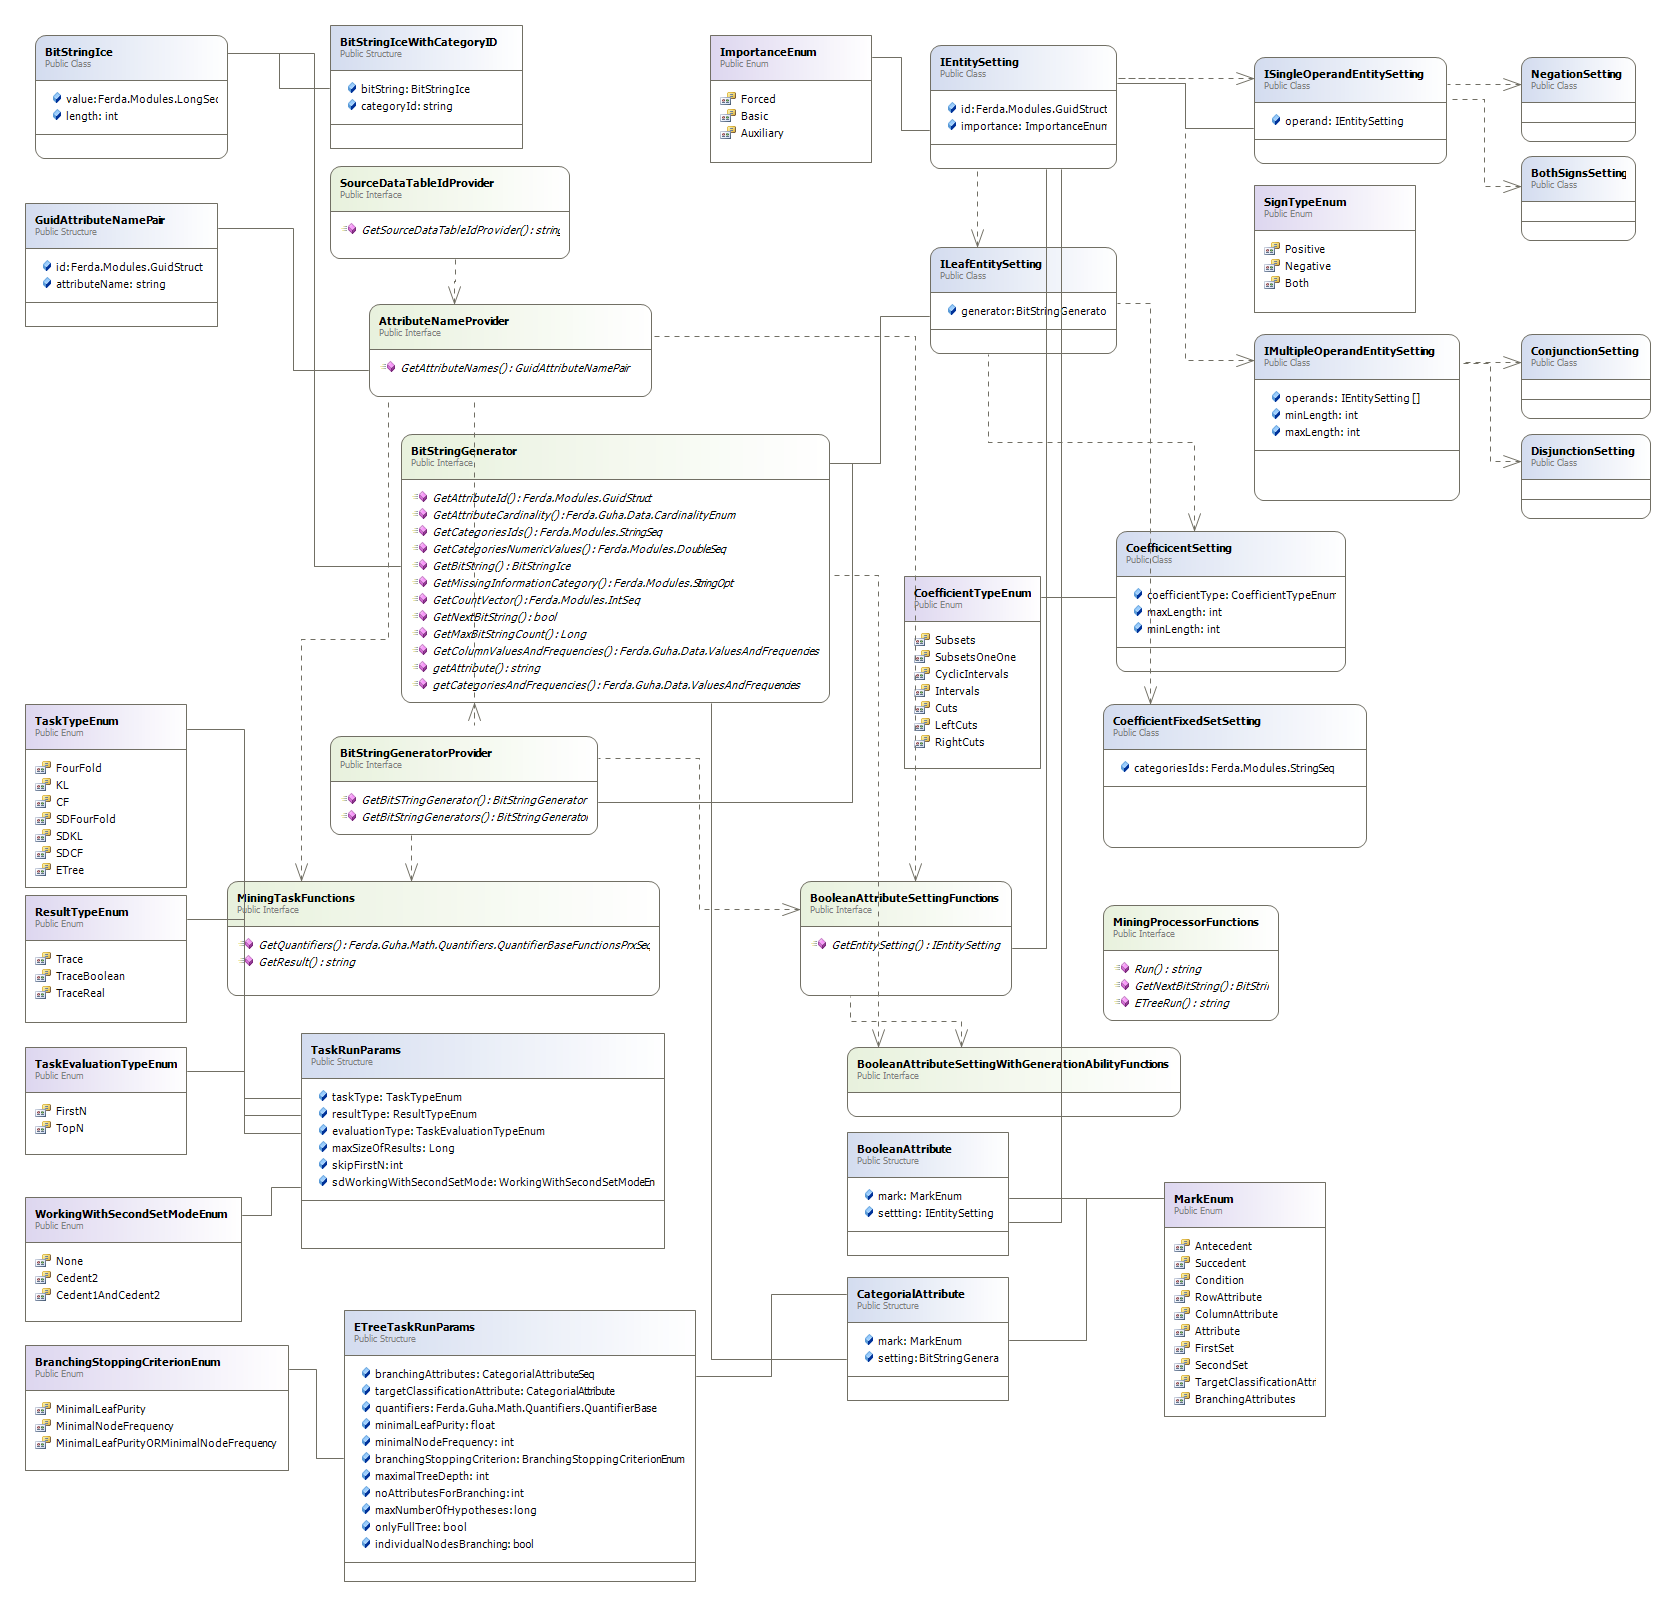
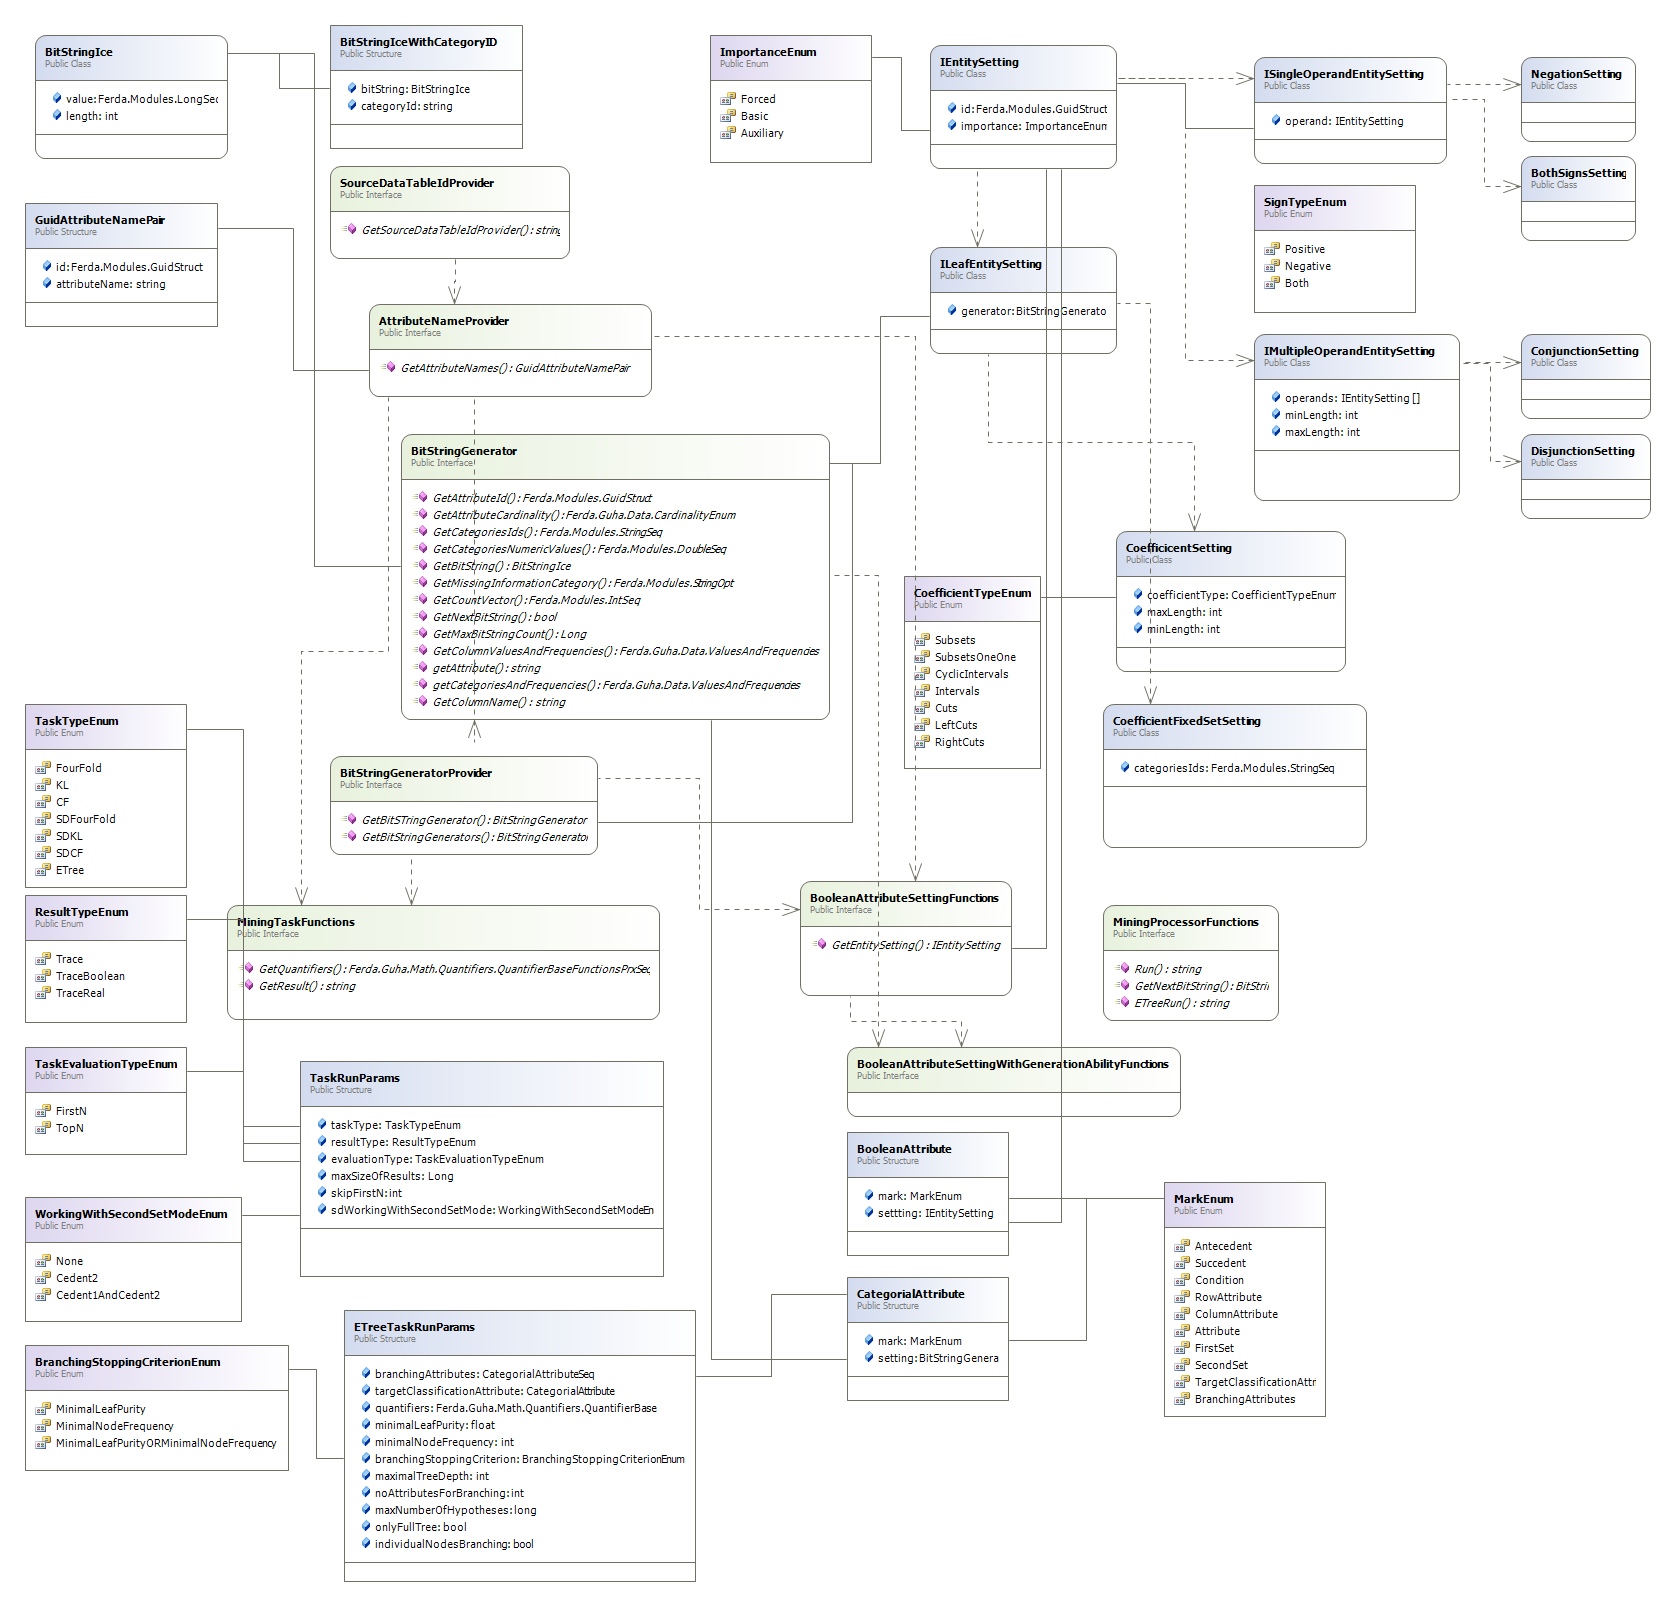
PMMLBuilder box - progress

Changed region(s): [[0.1242, 0.4359, 0.4036, 0.7783]]

diff --git a/ferda/src/Modules/Core/MiningProcessor/Design/BitStringGeneratorPrx.cs b/ferda/src/Modules/Core/MiningProcessor/Design/BitStringGeneratorPrx.cs
@@ -44,6 +44,28 @@ namespace Ferda.Guha.MiningProcessor.Design
     public class BitStringGeneratorPrx : AttributeNameProvider
     {
         /// <summary>
+        /// Gets the name of the column from which the attribute and bit string generator
+        /// is created. Added for PMML purposes. 
+        /// </summary>
+        /// <param name="current__">ICE stuff</param>
+        /// <returns></returns>
+        public override string GetColumnName(Current current__)
+        {
+            throw new NotImplementedException();
+        }
+
+        /// <summary>
+        /// Gets categories and frequencies of the underlying attribute. The function
+        /// was taken from AttributeFunctions for purposes of PMML generation. 
+        /// </summary>
+        /// <param name="current__">ICE stuff</param>
+        /// <returns>Values and frequencies of the attribute categories</returns>
+        public override ValuesAndFrequencies getCategoriesAndFrequencies(Current current__)
+        {
+            throw new NotImplementedException();
+        }
+
+        /// <summary>
         /// Returns serialized attribute <see cref="Ferda.Guha.Attribute"/>.
         /// This fucntion was added to the Slice desing for
         /// the PMML support - it was removed from 

diff --git a/ferda/src/Modules/BoxModulesServices/DataPreparation/Categorization/EquidistantIntervals/Functions.cs b/ferda/src/Modules/BoxModulesServices/DataPreparation/Categorization/EquidistantIntervals/Functions.cs
@@ -870,6 +870,17 @@ namespace Ferda.Modules.Boxes.DataPreparation.Categorization.EquidistantInterval
         #region ICE functions
 
         /// <summary>
+        /// Gets the name of the column from which the attribute and bit string generator
+        /// is created. Added for PMML purposes. 
+        /// </summary>
+        /// <param name="current__">ICE stuff</param>
+        /// <returns></returns>
+        public override string GetColumnName(Current current__)
+        {
+            return GetColumnFunctionsPrx(true).getColumnInfo().columnSelectExpression;
+        }
+
+        /// <summary>
         /// Returns cardinality of the attribute (nominal/ordinal/cyclic ordinal/cardinal).
         /// </summary>
         /// <param name="current__">ICE stuff</param>

diff --git a/ferda/src/Modules/BoxModulesServices/DataPreparation/Categorization/EquidistantIntervalsLISp/Functions.cs b/ferda/src/Modules/BoxModulesServices/DataPreparation/Categorization/EquidistantIntervalsLISp/Functions.cs
@@ -886,6 +886,17 @@ namespace Ferda.Modules.Boxes.DataPreparation.Categorization.EquidistantInterval
         #region ICE functions
 
         /// <summary>
+        /// Gets the name of the column from which the attribute and bit string generator
+        /// is created. Added for PMML purposes. 
+        /// </summary>
+        /// <param name="current__">ICE stuff</param>
+        /// <returns></returns>
+        public override string GetColumnName(Current current__)
+        {
+            return GetColumnFunctionsPrx(true).getColumnInfo().columnSelectExpression;
+        }
+
+        /// <summary>
         /// Returns cardinality of the attribute (nominal/ordinal/cyclic ordinal/cardinal).
         /// </summary>
         /// <param name="current__">ICE stuff</param>

diff --git a/ferda/src/Modules/BoxModulesServices/GuhaMining/VirtualAttributes/VirtualFFTBooleanAttribute/Functions.cs b/ferda/src/Modules/BoxModulesServices/GuhaMining/VirtualAttributes/VirtualFFTBooleanAttribute/Functions.cs
@@ -571,7 +571,18 @@ namespace Ferda.Modules.Boxes.GuhaMining.VirtualAttributes.VirtualFFTBooleanAttr
         {
             throw new BoxRuntimeError("Virtual 4FT attribute", "The function getAttribute is not supported.");
         }
-   
+
+        /// <summary>
+        /// Gets the name of the column from which the attribute and bit string generator
+        /// is created. Added for PMML purposes. 
+        /// </summary>
+        /// <param name="current__">ICE stuff</param>
+        /// <returns></returns>
+        public override string GetColumnName(Current current__)
+        {
+            return "Virtual 4FT attribute";
+        }
+
         #region Not implemented
 
         public override BitStringIce GetBitString(string categoryId, Current current__)

diff --git a/ferda/src/Modules/BoxModulesServices/DataPreparation/Categorization/EquifrequencyIntervals/Functions.cs b/ferda/src/Modules/BoxModulesServices/DataPreparation/Categorization/EquifrequencyIntervals/Functions.cs
@@ -906,6 +906,17 @@ namespace Ferda.Modules.Boxes.DataPreparation.Categorization.EquifrequencyInterv
         #endregion
 
         /// <summary>
+        /// Gets the name of the column from which the attribute and bit string generator
+        /// is created. Added for PMML purposes. 
+        /// </summary>
+        /// <param name="current__">ICE stuff</param>
+        /// <returns></returns>
+        public override string GetColumnName(Current current__)
+        {
+            return GetColumnFunctionsPrx(true).getColumnInfo().columnSelectExpression;
+        }
+
+        /// <summary>
         /// Returns cardinality of the attribute (nominal/ordinal/cyclic ordinal/cardinal).
         /// </summary>
         /// <param name="current__">ICE stuff</param>

diff --git a/ferda/src/Modules/BoxModulesServices/DataPreparation/Categorization/StaticAttribute/Functions.cs b/ferda/src/Modules/BoxModulesServices/DataPreparation/Categorization/StaticAttribute/Functions.cs
@@ -152,6 +152,17 @@ namespace Ferda.Modules.Boxes.DataPreparation.Categorization.StaticAttribute
         #endregion
 
         /// <summary>
+        /// Gets the name of the column from which the attribute and bit string generator
+        /// is created. Added for PMML purposes. 
+        /// </summary>
+        /// <param name="current__">ICE stuff</param>
+        /// <returns></returns>
+        public override string GetColumnName(Current current__)
+        {
+            return GetColumnFunctionsPrx(true).getColumnInfo().columnSelectExpression;
+        }
+
+        /// <summary>
         /// Returns cardinality of the attribute (nominal/ordinal/cyclic ordinal/cardinal).
         /// </summary>
         /// <param name="current__">ICE stuff</param>

diff --git a/ferda/src/Modules/BoxModulesServices/DataPreparation/Categorization/EachValueOneCategory/Functions.cs b/ferda/src/Modules/BoxModulesServices/DataPreparation/Categorization/EachValueOneCategory/Functions.cs
@@ -678,6 +678,17 @@ namespace Ferda.Modules.Boxes.DataPreparation.Categorization.EachValueOneCategor
         }
 
         /// <summary>
+        /// Gets the name of the column from which the attribute and bit string generator
+        /// is created. Added for PMML purposes. 
+        /// </summary>
+        /// <param name="current__">ICE stuff</param>
+        /// <returns></returns>
+        public override string GetColumnName(Current current__)
+        {
+            return GetColumnFunctionsPrx(true).getColumnInfo().columnSelectExpression;
+        }
+
+        /// <summary>
         /// Returns cardinality of the attribute (nominal/ordinal/cyclic ordinal/cardinal).
         /// </summary>
         /// <param name="current__">ICE stuff</param>

diff --git a/ferda/src/Modules/BoxModulesServices/DataPreparation/Categorization/OntologyDerivedAttribute/Functions.cs b/ferda/src/Modules/BoxModulesServices/DataPreparation/Categorization/OntologyDerivedAttribute/Functions.cs
@@ -1218,6 +1218,16 @@ namespace Ferda.Modules.Boxes.DataPreparation.Categorization.OntologyDerivedAttr
             return GetCategoriesIds(true);
         }
 
+        /// <summary>
+        /// Gets the name of the column from which the attribute and bit string generator
+        /// is created. Added for PMML purposes. 
+        /// </summary>
+        /// <param name="current__">ICE stuff</param>
+        /// <returns></returns>
+        public override string GetColumnName(Current current__)
+        {
+            return GetColumnFunctionsPrx(true).getColumnInfo().columnSelectExpression;
+        }
 
         /// <summary>
         /// Returns numerical values of the categories. These numerical

diff --git a/ferda/src/Modules/BoxModulesServices/GuhaMining/VirtualAttributes/VirtualSDFFTBooleanAttribute/Functions.cs b/ferda/src/Modules/BoxModulesServices/GuhaMining/VirtualAttributes/VirtualSDFFTBooleanAttribute/Functions.cs
@@ -484,6 +484,17 @@ namespace Ferda.Modules.Boxes.GuhaMining.VirtualAttributes.VirtualSDFFTBooleanAt
             return MaxNumberOfHypotheses;
         }
 
+        /// <summary>
+        /// Gets the name of the column from which the attribute and bit string generator
+        /// is created. Added for PMML purposes. 
+        /// </summary>
+        /// <param name="current__">ICE stuff</param>
+        /// <returns></returns>
+        public override string GetColumnName(Current current__)
+        {
+            return "Virtual 4FT attribute";
+        }
+
         #region Not implemented
 
         public override BitStringIce GetBitString(string categoryId, Current current__)
